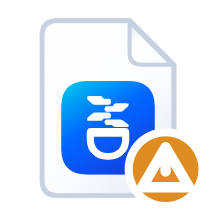
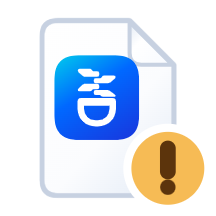
Make the download and conflict corner badges readable

Changed region(s): [[0.25, 0.25, 0.9722, 0.9722]]

diff --git a/scripts/document_assets.py b/scripts/document_assets.py
@@ -9,11 +9,27 @@ def status_badge(color: str, mark: str, ink: str = '#fff') -> str:
     )
 
 
+def corner_badge(color: str, symbol: str) -> str:
+    return (
+        '<g transform="translate(18.65 18.7)">'
+        f'<circle r="4.5" fill="{color}" stroke="#fff" stroke-width=".9"/>{symbol}</g>'
+    )
+
+
 def document_illustrations(theme: str) -> dict[str, str]:
     outline = '#c7d1e1' if theme == 'light' else '#98aac2'
     archive = brand_shapes(theme)['archive']
+    corner_document = brand_shapes(theme, document_profile='corner-badge')['archive']
     warning = status_badge('#f6bb55', 'M18.4 16.8v2.25m0 1.55h.01', '#5c340c')
-    conflict = status_badge('#de8d22', 'M18.4 16.35l2.6 4.45h-5.2Z M18.4 18.15v.9')
+    conflict = corner_badge(
+        '#f6bb55',
+        '<path d="M0 -2.2V.35" stroke="#5c340c" stroke-width="1.75"/>'
+        '<circle cy="2.1" r=".85" fill="#5c340c" stroke="none"/>',
+    )
+    windows_download = corner_badge(
+        '#2d64da',
+        '<path d="M-.88 -2.65H.88V.1H2.6L0 2.72 -2.6 .1H-.88Z" fill="#fff" stroke="none"/>',
+    )
     download = 'M18.4 16.65v3.6m-1.55-1.5 1.55 1.5 1.55-1.5'
     tray = download + 'M16.7 21h3.4'
     pdf = (
@@ -35,10 +51,10 @@ def document_illustrations(theme: str) -> dict[str, str]:
         'document-download': archive + status_badge('#2d64da', download),
         'existing-archive': back + archive,
         'file-pdf': pdf,
-        'windows-document': archive + status_badge('#2d64da', tray),
+        'windows-document': corner_document + windows_download,
         'linux-document': archive + status_badge('#177a85', tray),
         'conflict-pdf': pdf,
-        'document-conflict': archive + conflict,
+        'document-conflict': corner_document + conflict,
         'archive-warning': back + archive + warning,
         'document-warning': archive + warning,
     }

diff --git a/scripts/brand_assets.py b/scripts/brand_assets.py
@@ -88,15 +88,20 @@ def document_paper(prefix: str, outline: str) -> str:
 
 def brand_shapes(theme: str, document_profile: str = 'ui') -> dict[str, str]:
     """Return the fixed 24-unit UI family; colors do not alter its geometry."""
-    if document_profile not in ('ui', 'tiny', 'small'):
+    profiles = {
+        'ui': ((6.8, 9, 10.4), 7.08),
+        'tiny': ((5.5, 7.9, 13), 11.75),
+        'small': ((6, 8.4, 12), 9.894),
+        'corner-badge': ((6.05, 6.15, 9.4), 6.4),
+    }
+    if document_profile not in profiles:
         raise ValueError(f'Unknown document optical profile: {document_profile}')
     outline = '#c7d1e1' if theme == 'light' else '#98aac2'
+    badge, height = profiles[document_profile]
 
     def document(grey: bool = False) -> str:
         prefix = 'archive-grey-brand' if grey else 'archive-brand'
-        badge = {'ui': (6.8, 9, 10.4), 'tiny': (5.5, 7.9, 13), 'small': (6, 8.4, 12)}[document_profile]
         # Preserve the optical height, not the old wider signature's width.
-        height = {'ui': 7.08, 'tiny': 11.75, 'small': 9.894}[document_profile]
         width = height * MARK_VIEWBOX[2] / MARK_VIEWBOX[3]
         mark = signature(badge[0] + (badge[2] - width) / 2,
                          badge[1] + (badge[2] - height) / 2, width)

diff --git a/design/assets/README.md b/design/assets/README.md
@@ -57,6 +57,8 @@ macOS Dock 实测反馈后的修订：ICNS 与 Qt 运行时 Dock 图标改用 `b
 
 主清单的 `reference_coverage` 为 36 张图标切片记录对应语义及浅深色 SVG。归档操作和 PDF 插图使用折角纸张，添加、下载、校验和警告由小徽章标记。浏览素材画廊可查看当前矢量与透明导出。
 
+`windows-document` 用实心向下箭头，`document-conflict` 用琥珀底上的深色感叹号。两枚角标内各保留一个符号，XD 徽章靠左上放置，两者之间留出纸面。显示仍使用统一的 24 单位画布。
+
 补齐主题浅 / 深、已有归档、Windows / Linux 文档、取消大图、选中复选框、成功、选中 / 未选中单选框、冲突 PDF、冲突警告和进度图片十三种语义。取消大图保留方形停止符号；主题系统图标展示完整窗口结构。成功、部分成功、跳过、停止、警告、停止中及系统主题七类既有图标调整渐变、高光或结构，实际表现与仍存在的差异见 [品牌与素材复核（本地／CI 工件）](../../developers/qa/README.md)。
 
 ## 原稿与参考的关系
